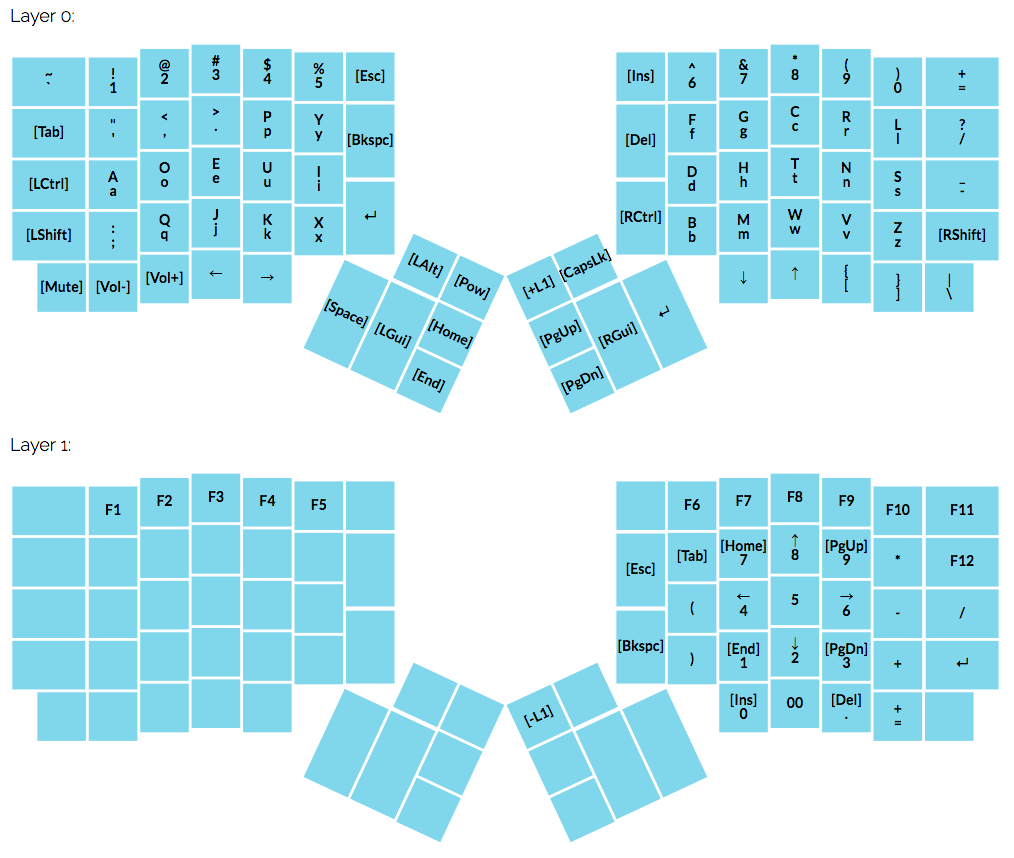
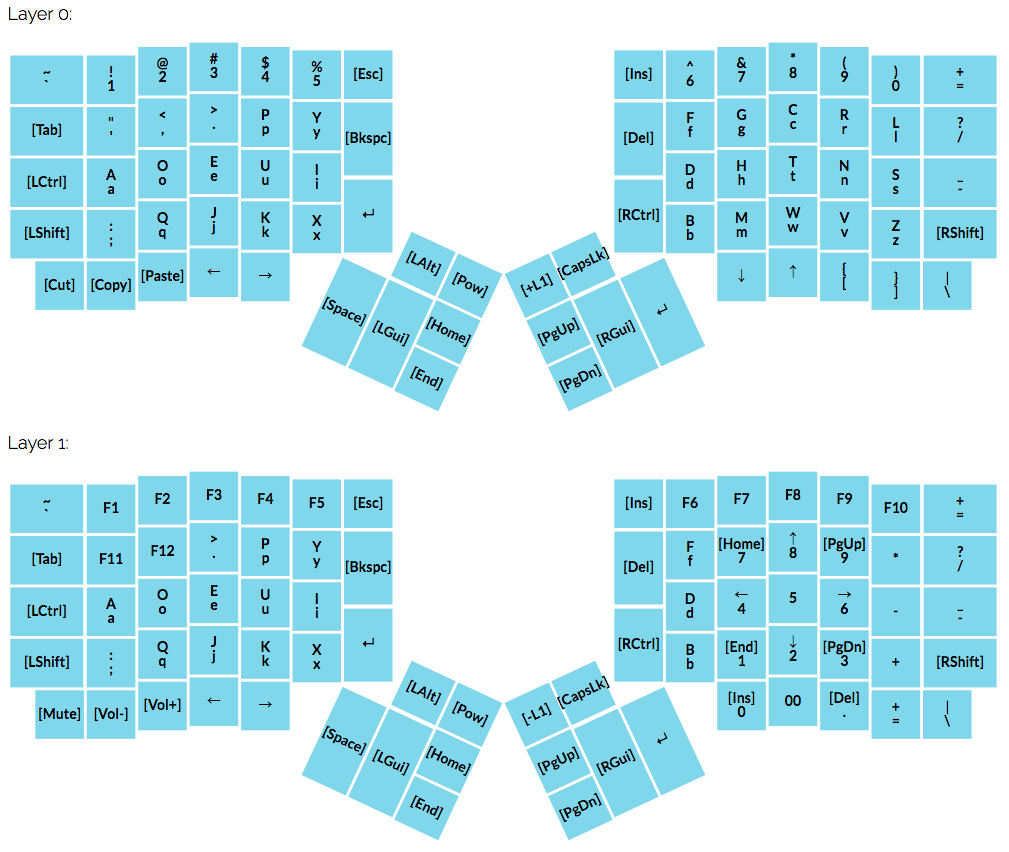
update layer 2

diff --git a/keyboard/ergodox/layout/default--layout.c b/keyboard/ergodox/layout/default--layout.c
@@ -70,7 +70,7 @@ KB_MATRIX_LAYER(
 	KEY_Tab,	KEY_SingleQuote_DoubleQuote,	KEY_Comma_LessThan,	KEY_Period_GreaterThan,	KEY_p_P,	KEY_y_Y,	KEY_DeleteBackspace,	
 	KEY_LeftControl,	KEY_a_A,	KEY_o_O,	KEY_e_E,	KEY_u_U,	KEY_i_I,	
 	KEY_LeftShift,	KEY_Semicolon_Colon,	KEY_q_Q,	KEY_j_J,	KEY_k_K,	KEY_x_X,	KEY_ReturnEnter,	
-	KEY_Mute,	KEY_VolumeDown,	KEY_VolumeUp,	KEY_LeftArrow,	KEY_RightArrow,	
+	KEY_Cut,	KEY_Copy,	KEY_Paste,	KEY_LeftArrow,	KEY_RightArrow,	
 	KEY_LeftAlt,	KEY_Power,	
 	0,	0,	KEY_Home,	
 	KEY_Spacebar,	KEY_LeftGUI,	KEY_End,	
@@ -89,23 +89,23 @@ KB_MATRIX_LAYER(
 	// unused
 	0,	
 	// left hand
-	0,	KEY_F1,	KEY_F2,	KEY_F3,	KEY_F4,	KEY_F5,	0,	
-	0,	0,	0,	0,	0,	0,	0,	
-	0,	0,	0,	0,	0,	0,	
-	0,	0,	0,	0,	0,	0,	0,	
-	0,	0,	0,	0,	0,	
-	0,	0,	
-	0,	0,	0,	
-	0,	0,	0,	
+	KEY_GraveAccent_Tilde,	KEY_F1,	KEY_F2,	KEY_F3,	KEY_F4,	KEY_F5,	KEY_Escape,	
+	KEY_Tab,	KEY_F11,	KEY_F12,	KEY_Period_GreaterThan,	KEY_p_P,	KEY_y_Y,	KEY_DeleteBackspace,	
+	KEY_LeftControl,	KEY_a_A,	KEY_o_O,	KEY_e_E,	KEY_u_U,	KEY_i_I,	
+	KEY_LeftShift,	KEY_Semicolon_Colon,	KEY_q_Q,	KEY_j_J,	KEY_k_K,	KEY_x_X,	KEY_ReturnEnter,	
+	KEY_Mute,	KEY_VolumeDown,	KEY_VolumeUp,	KEY_LeftArrow,	KEY_RightArrow,	
+	KEY_LeftAlt,	KEY_Power,	
+	0,	0,	KEY_Home,	
+	KEY_Spacebar,	KEY_LeftGUI,	KEY_End,	
 	// right hand
-	0,	KEY_F6,	KEY_F7,	KEY_F8,	KEY_F9,	KEY_F10,	KEY_F11,	
-	KEY_Escape,	KEY_Tab,	KEYPAD_7_Home,	KEYPAD_8_UpArrow,	KEYPAD_9_PageUp,	KEYPAD_Asterisk,	KEY_F12,	
-	KEYPAD_LeftParenthesis,	KEYPAD_4_LeftArrow,	KEYPAD_5,	KEYPAD_6_RightArrow,	KEYPAD_Minus,	KEYPAD_Slash,	
-	KEY_DeleteBackspace,	KEYPAD_RightParenthesis,	KEYPAD_1_End,	KEYPAD_2_DownArrow,	KEYPAD_3_PageDown,	KEYPAD_Plus,	KEY_ReturnEnter,	
-	KEYPAD_0_Insert,	KEYPAD_00,	KEYPAD_Period_Delete,	KEY_Equal_Plus,	0,	
-	1,	0,	
-	0,	0,	0,	
-	0,	0,	0	
+	KEY_Insert,	KEY_F6,	KEY_F7,	KEY_F8,	KEY_F9,	KEY_F10,	KEY_Equal_Plus,	
+	KEY_DeleteForward,	KEY_f_F,	KEYPAD_7_Home,	KEYPAD_8_UpArrow,	KEYPAD_9_PageUp,	KEYPAD_Asterisk,	KEY_Slash_Question,	
+	KEY_d_D,	KEYPAD_4_LeftArrow,	KEYPAD_5,	KEYPAD_6_RightArrow,	KEYPAD_Minus,	KEY_Dash_Underscore,	
+	KEY_RightControl,	KEY_b_B,	KEYPAD_1_End,	KEYPAD_2_DownArrow,	KEYPAD_3_PageDown,	KEYPAD_Plus,	KEY_RightShift,	
+	KEYPAD_0_Insert,	KEYPAD_00,	KEYPAD_Period_Delete,	KEY_Equal_Plus,	KEY_Backslash_Pipe,	
+	1,	KEY_CapsLock,	
+	KEY_PageUp,	0,	0,	
+	KEY_PageDown,	KEY_RightGUI,	KEY_ReturnEnter	
 ),
 // LAYER 2
 KB_MATRIX_LAYER(
@@ -324,23 +324,23 @@ KB_MATRIX_LAYER(
 	// unused
 	NULL,	
 	// left hand
-	NULL,	kprrel,	kprrel,	kprrel,	kprrel,	kprrel,	NULL,	
-	NULL,	NULL,	NULL,	NULL,	NULL,	NULL,	NULL,	
-	NULL,	NULL,	NULL,	NULL,	NULL,	NULL,	
-	NULL,	NULL,	NULL,	NULL,	NULL,	NULL,	NULL,	
-	NULL,	NULL,	NULL,	NULL,	NULL,	
-	NULL,	NULL,	
-	NULL,	NULL,	NULL,	
-	NULL,	NULL,	NULL,	
-	// right hand
-	NULL,	kprrel,	kprrel,	kprrel,	kprrel,	kprrel,	kprrel,	
+	kprrel,	kprrel,	kprrel,	kprrel,	kprrel,	kprrel,	kprrel,	
 	kprrel,	kprrel,	kprrel,	kprrel,	kprrel,	kprrel,	kprrel,	
 	kprrel,	kprrel,	kprrel,	kprrel,	kprrel,	kprrel,	
 	kprrel,	kprrel,	kprrel,	kprrel,	kprrel,	kprrel,	kprrel,	
-	kprrel,	kprrel,	kprrel,	kprrel,	NULL,	
-	lpop1,	NULL,	
-	NULL,	NULL,	NULL,	
-	NULL,	NULL,	NULL	
+	kprrel,	kprrel,	kprrel,	kprrel,	kprrel,	
+	kprrel,	kprrel,	
+	NULL,	NULL,	kprrel,	
+	kprrel,	kprrel,	kprrel,	
+	// right hand
+	kprrel,	kprrel,	kprrel,	kprrel,	kprrel,	kprrel,	kprrel,	
+	kprrel,	kprrel,	kprrel,	kprrel,	kprrel,	kprrel,	kprrel,	
+	kprrel,	kprrel,	kprrel,	kprrel,	kprrel,	kprrel,	
+	kprrel,	kprrel,	kprrel,	kprrel,	kprrel,	kprrel,	kprrel,	
+	kprrel,	kprrel,	kprrel,	kprrel,	kprrel,	
+	lpop1,	kprrel,	
+	kprrel,	NULL,	NULL,	
+	kprrel,	kprrel,	kprrel	
 ),
 // LAYER 2
 KB_MATRIX_LAYER(
@@ -559,23 +559,23 @@ KB_MATRIX_LAYER(
 	// unused
 	NULL,	
 	// left hand
-	NULL,	kprrel,	kprrel,	kprrel,	kprrel,	kprrel,	NULL,	
-	NULL,	NULL,	NULL,	NULL,	NULL,	NULL,	NULL,	
-	NULL,	NULL,	NULL,	NULL,	NULL,	NULL,	
-	NULL,	NULL,	NULL,	NULL,	NULL,	NULL,	NULL,	
-	NULL,	NULL,	NULL,	NULL,	NULL,	
-	NULL,	NULL,	
-	NULL,	NULL,	NULL,	
-	NULL,	NULL,	NULL,	
-	// right hand
-	NULL,	kprrel,	kprrel,	kprrel,	kprrel,	kprrel,	kprrel,	
+	kprrel,	kprrel,	kprrel,	kprrel,	kprrel,	kprrel,	kprrel,	
 	kprrel,	kprrel,	kprrel,	kprrel,	kprrel,	kprrel,	kprrel,	
 	kprrel,	kprrel,	kprrel,	kprrel,	kprrel,	kprrel,	
 	kprrel,	kprrel,	kprrel,	kprrel,	kprrel,	kprrel,	kprrel,	
-	kprrel,	kprrel,	kprrel,	kprrel,	NULL,	
-	NULL,	NULL,	
-	NULL,	NULL,	NULL,	
-	NULL,	NULL,	NULL	
+	kprrel,	kprrel,	kprrel,	kprrel,	kprrel,	
+	kprrel,	kprrel,	
+	NULL,	NULL,	kprrel,	
+	kprrel,	kprrel,	kprrel,	
+	// right hand
+	kprrel,	kprrel,	kprrel,	kprrel,	kprrel,	kprrel,	kprrel,	
+	kprrel,	kprrel,	kprrel,	kprrel,	kprrel,	kprrel,	kprrel,	
+	kprrel,	kprrel,	kprrel,	kprrel,	kprrel,	kprrel,	
+	kprrel,	kprrel,	kprrel,	kprrel,	kprrel,	kprrel,	kprrel,	
+	kprrel,	kprrel,	kprrel,	kprrel,	kprrel,	
+	NULL,	kprrel,	
+	kprrel,	NULL,	NULL,	
+	kprrel,	kprrel,	kprrel	
 ),
 // LAYER 2
 KB_MATRIX_LAYER(
